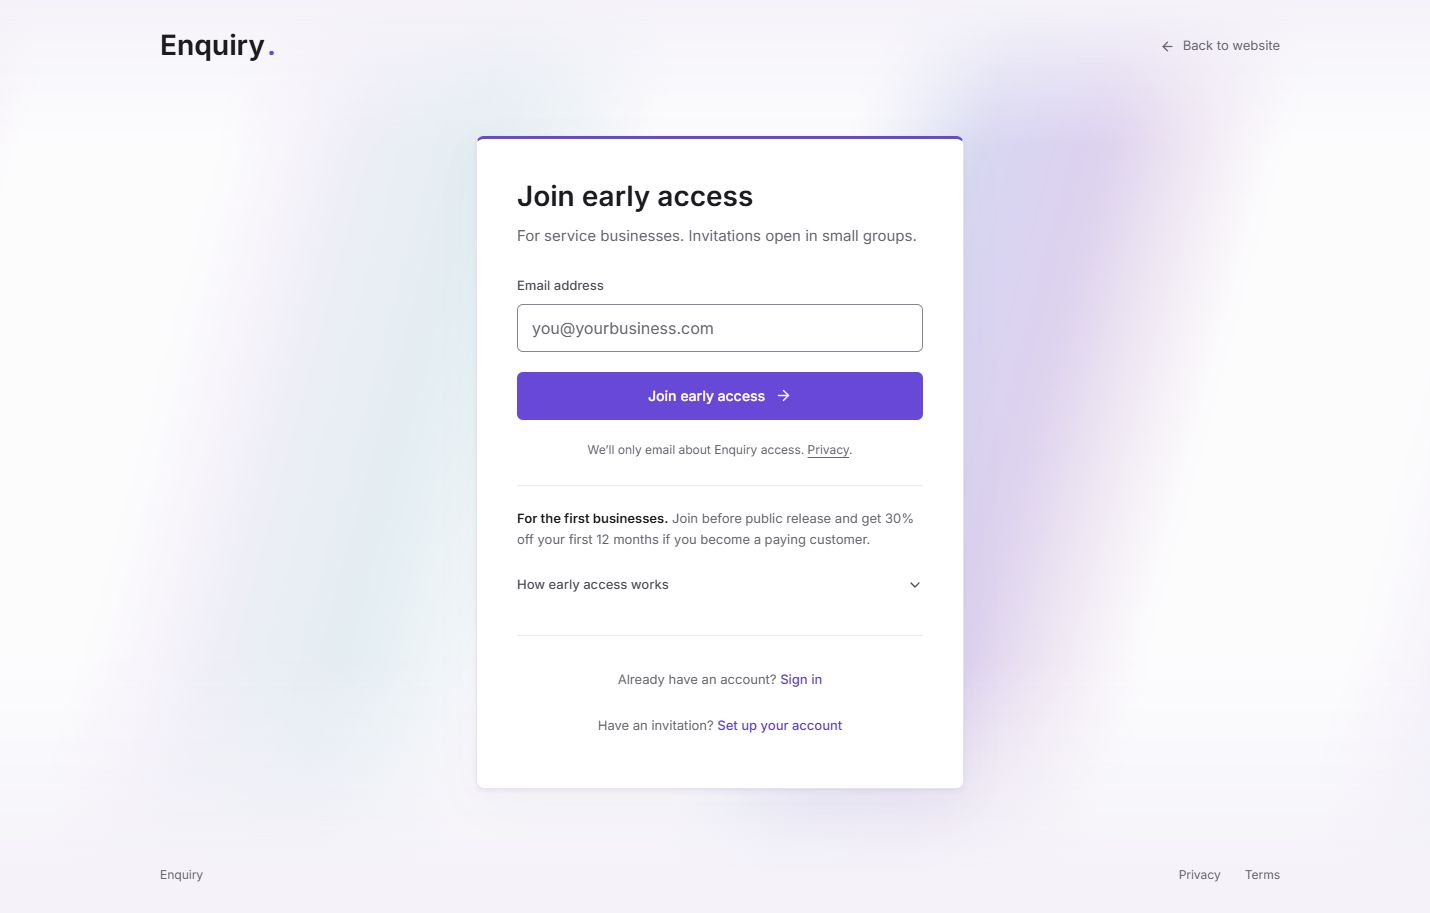
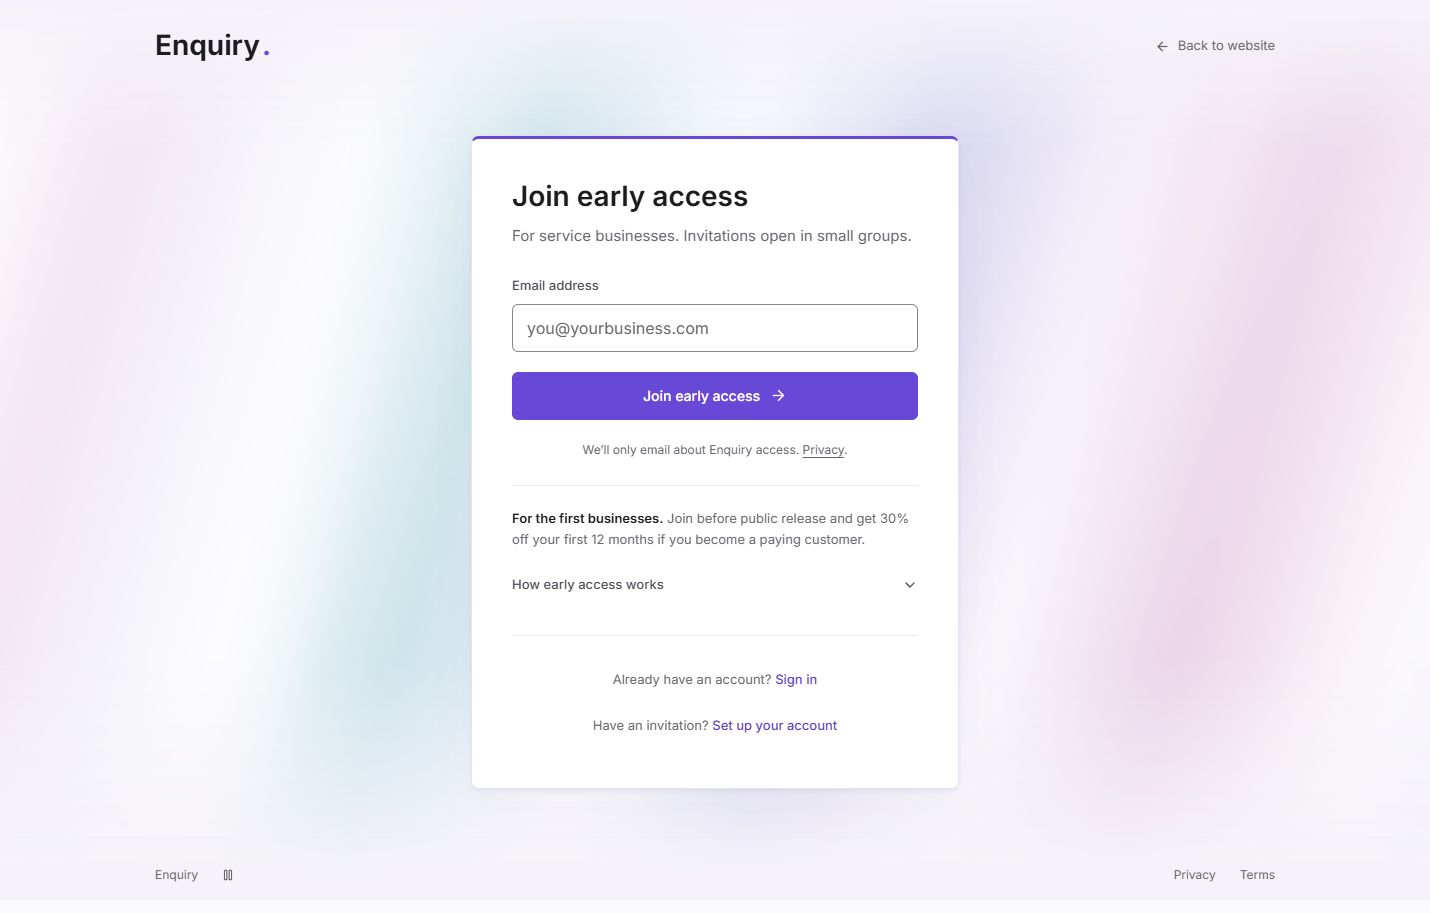
feat(ui): make entry aurora flow continuously with pause control

diff --git a/src/auth.css b/src/auth.css
@@ -21,44 +21,91 @@
 }
 .entry-aurora-ribbons {
   position: absolute;
-  inset: -12%;
+  inset: -20%;
   background-image:
-    repeating-linear-gradient(105deg, #fff 0%, #fff 5%, transparent 8%, transparent 11%, #fff 15%),
+    repeating-linear-gradient(105deg, #fff 0%, #fff 3%, transparent 7%, transparent 10%, #fff 15%),
     repeating-linear-gradient(
       105deg,
-      #d6e9ed 0%,
+      #b7dfe1 0%,
       #c4d7f1 9%,
-      #d2c5ed 17%,
-      #e8cfe1 24%,
+      #bea8e3 17%,
+      #e7bfd7 24%,
       #f3edf9 32%,
-      #d6e9ed 40%
+      #b7dfe1 40%
     );
   background-size:
-    220% 100%,
+    115% 100%,
     160% 100%;
   background-position: 50% 50%;
-  filter: blur(12px);
-  opacity: 0.72;
-  transform: translate3d(3%, 0, 0);
-  animation: entry-aurora-arrive 4.5s ease-out both;
+  filter: blur(10px);
+  opacity: 0.66;
+  transform: translate3d(-6%, -1%, 0) rotate(-3deg);
+  animation: entry-aurora-flow 24s ease-in-out infinite alternate;
 }
-@keyframes entry-aurora-arrive {
+.entry-aurora-ribbons::after {
+  content: "";
+  position: absolute;
+  inset: -8%;
+  background: inherit;
+  background-size:
+    90% 100%,
+    130% 100%;
+  opacity: 0.45;
+  animation: entry-aurora-counterflow 32s ease-in-out -12s infinite alternate;
+}
+@keyframes entry-aurora-flow {
   from {
-    opacity: 0.35;
-    transform: translate3d(-3%, -1%, 0);
+    transform: translate3d(-6%, -1%, 0) rotate(-3deg);
   }
   to {
-    opacity: 0.72;
-    transform: translate3d(3%, 0, 0);
+    transform: translate3d(6%, 1%, 0) rotate(3deg);
   }
 }
+@keyframes entry-aurora-counterflow {
+  from {
+    transform: translate3d(8%, 0, 0) skewX(-7deg);
+  }
+  to {
+    transform: translate3d(-8%, 2%, 0) skewX(7deg);
+  }
+}
+.auth-page[data-aurora-paused="true"] .entry-aurora-ribbons,
+.auth-page[data-aurora-paused="true"] .entry-aurora-ribbons::after {
+  animation-play-state: paused;
+}
+.auth-footer-brand {
+  display: flex;
+  align-items: center;
+  gap: 8px;
+}
+.auth-motion-toggle {
+  display: grid;
+  place-items: center;
+  width: 44px;
+  height: 44px;
+  border-radius: 6px;
+  color: var(--auth-muted);
+  cursor: pointer;
+  transition:
+    color 180ms ease,
+    background-color 180ms ease;
+}
+.auth-motion-toggle:hover {
+  color: var(--color-mark-hover);
+  background: var(--color-reply);
+}
 @media (prefers-reduced-motion: reduce) {
-  .entry-aurora-ribbons {
+  .entry-aurora-ribbons,
+  .entry-aurora-ribbons::after {
     animation: none;
+  }
+  .auth-motion-toggle {
+    display: none;
   }
 }
 @media (forced-colors: active) {
-  .entry-aurora {
+  .entry-aurora,
+  .auth-motion-toggle {
     display: none;
   }
 }

diff --git a/src/components/auth/auth-layout.tsx b/src/components/auth/auth-layout.tsx
@@ -1,12 +1,15 @@
-import type { ReactNode } from "react";
+import { useState, type ReactNode } from "react";
 import { Link } from "@tanstack/react-router";
-import { ArrowLeft } from "lucide-react";
+import { ArrowLeft, Pause, Play } from "lucide-react";
 import { Wordmark } from "@/components/ui/wordmark";
 import { AuroraBackground } from "@/components/ui/aurora-background";
 
 export function AuthLayout({ children }: { children: ReactNode }) {
+  const [motionPaused, setMotionPaused] = useState(false);
+  const motionLabel = motionPaused ? "Resume background animation" : "Pause background animation";
+
   return (
-    <div className="auth-page">
+    <div className="auth-page" data-aurora-paused={motionPaused || undefined}>
       <AuroraBackground />
       <header className="auth-header">
         <Link to="/" aria-label="Enquiry home" className="auth-brand">
@@ -21,7 +24,22 @@ export function AuthLayout({ children }: { children: ReactNode }) {
         <div className="auth-content">{children}</div>
       </main>
       <footer className="auth-footer">
-        <span>Enquiry</span>
+        <div className="auth-footer-brand">
+          <span>Enquiry</span>
+          <button
+            type="button"
+            className="auth-motion-toggle"
+            aria-label={motionLabel}
+            title={motionLabel}
+            onClick={() => setMotionPaused((paused) => !paused)}
+          >
+            {motionPaused ? (
+              <Play size={14} aria-hidden="true" />
+            ) : (
+              <Pause size={14} aria-hidden="true" />
+            )}
+          </button>
+        </div>
         <nav aria-label="Legal">
           <Link to="/privacy">Privacy</Link>
           <Link to="/terms">Terms</Link>

diff --git a/docs/evidence/entry-aurora-2026-09-14/README.md b/docs/evidence/entry-aurora-2026-09-14/README.md
@@ -9,7 +9,9 @@ no-gradient direction, not a change to the operator app's visual system.
 - Shared AuthLayout adds a decorative, pointer-transparent background.
 - Supplied repeating-gradient ribbons adapted to existing CSS and UI1 colours.
 - White forms remain opaque; navigation and footer edges fade to the shell.
-- A single 4.5-second transform/opacity entrance settles without an infinite loop.
+- Owner follow-up replaces the settling entrance with continuous movement:
+  two transform-only layers drift on alternating 24- and 32-second cycles.
+- A labelled pause/resume icon in the footer stops both layers in place.
 - Reduced motion disables animation; forced colours removes the decoration.
 - No Framer Motion dependency, Tailwind reconfiguration or auth behaviour changes.
 
@@ -24,6 +26,9 @@ no-gradient direction, not a change to the operator app's visual system.
   runtime redirects into demo mode because this checkout has no Supabase env
   configuration; those two screens were not independently browser-verified.
 - Reduced-motion handling is source-tested, not OS-emulated in this browser.
+- Continuous-flow follow-up: browser computed transforms change over time,
+  both layers report paused after the pause action, the paused transform stays
+  identical across checks, and both return to running after resume.
 - This background has not been deployed to production.
 
 Local preview: http://localhost:8084/early-access. This is visual verification,
